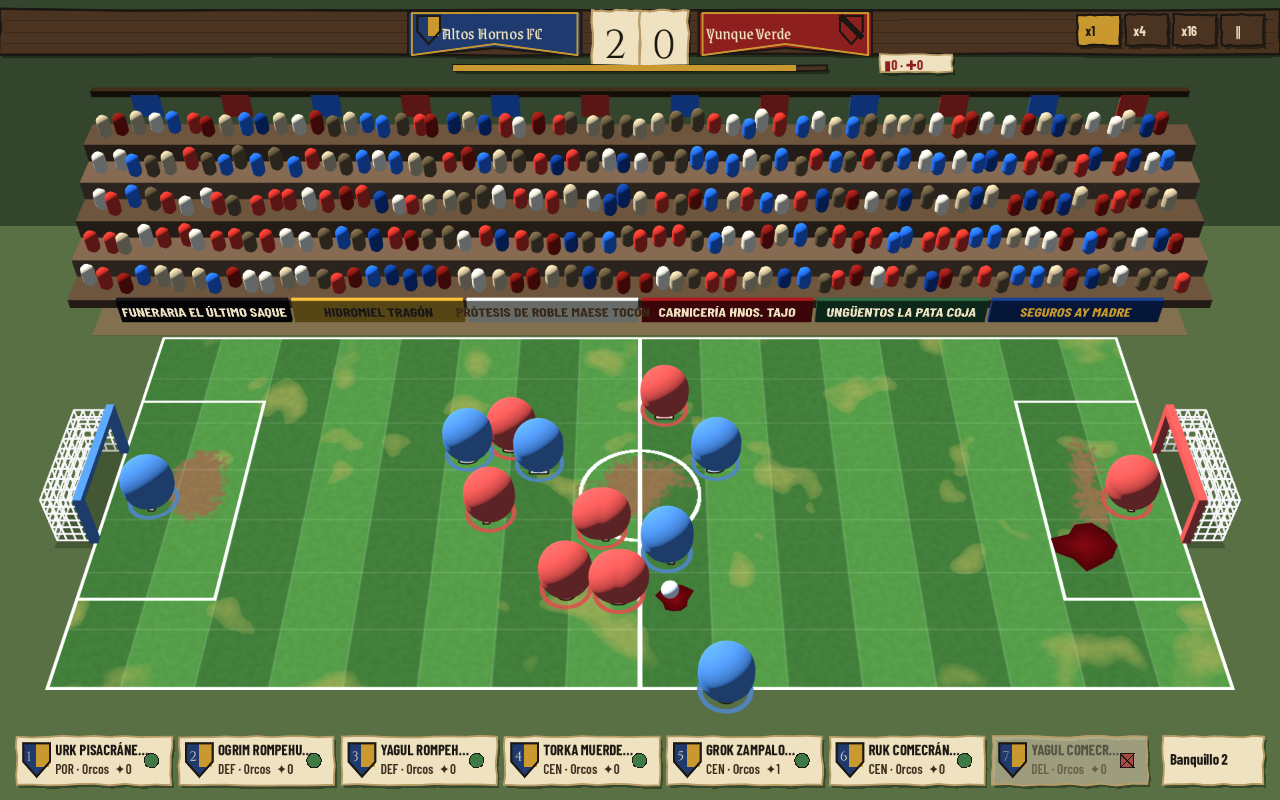
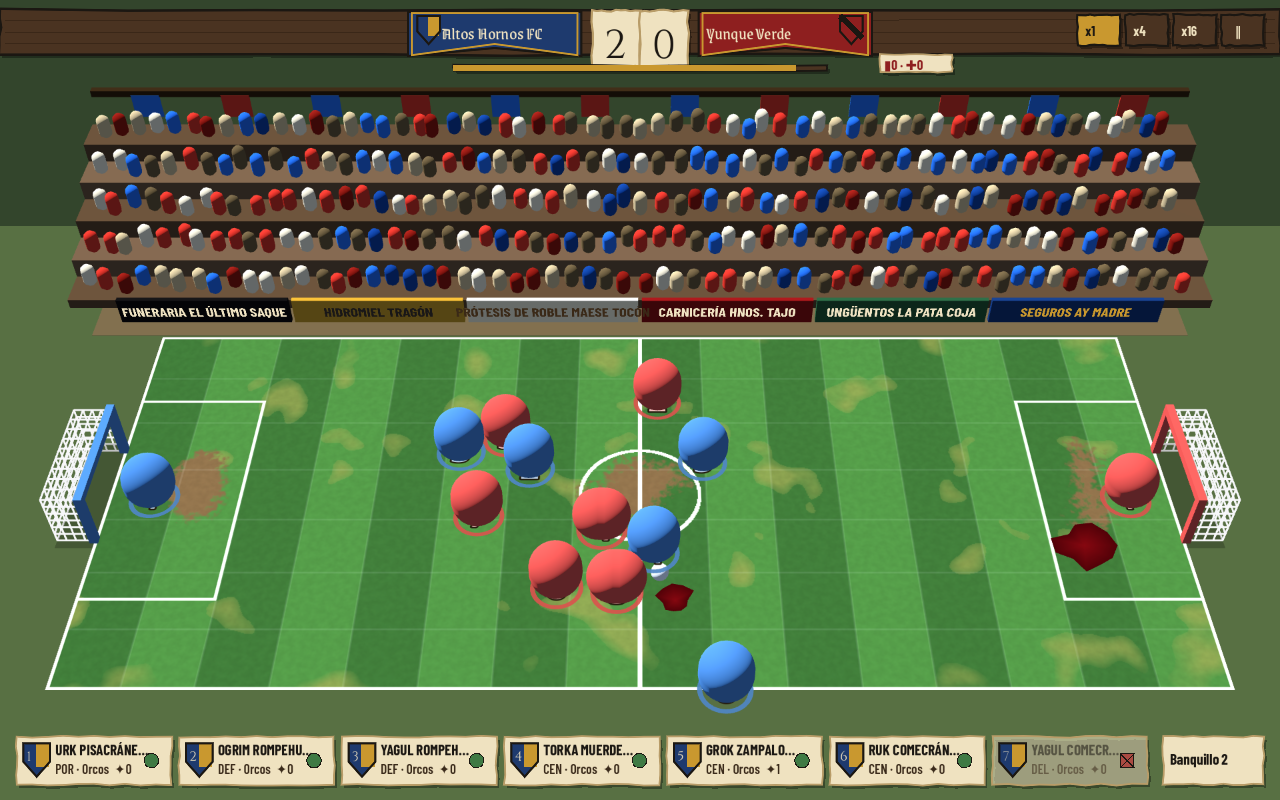
fix(game): el balón va al pie y hacia donde corre — y lo que eso destapó — BI-D
Reportado por el revisor: «el balón no va en sus pies, no se nota como si lo
controlara». Había un defecto real de presentación y, debajo, algo que no es de
presentación.

EL DEFECTO, arreglado y medido. El balón se apartaba del portador SIEMPRE en el eje
largo del campo (hacia la portería que ataca) y a radio + balón + holgura = 0,51
casillas del centro. A la escala del campo —un humano de 1,8 m mide 0,907 casillas,
así que una casilla son ~2 m— eso es UN METRO por delante: el balón iba suelto, no
conducido. Y un jugador que subía por la banda lo llevaba de costado.

Ahora se aparta HACIA DONDE CORRE —la misma dirección que ya orienta al modelo,
extraída a StepOf para que no haya dos cálculos— y a radio × 0,55 = 0,176 casillas,
que son los ~35 cm de un balón al pie, escalando con el tamaño de la raza. La
cápsula conserva la separación de siempre porque es gorda y el balón se le metería
dentro. Verificado con número, no de vista: DebugBall() mide lo DIBUJADO y da 0,176
casillas con portador real en el fotograma pedido (antes: 0,51 fijo en X).

LO QUE DESTAPÓ, y es lo importante. Al buscar un fotograma con un humano
conduciendo para verificarlo, no había ninguno. Medido sobre el partido completo:

  el balón tiene dueño 387 de 1.200 ticks — el 32,3 %
  77 posesiones, 5,0 ticks de media = 0,33 s
  la más larga de CUALQUIERA: 14 ticks = 0,93 s

Dos tercios del partido el balón no es de nadie, y cuando alguien lo tiene lo tiene
[…]

Changed region(s): [[0.3125, 0.4375, 0.5938, 0.7812], [0.875, 0.5625, 0.9062, 0.6562], [0.0938, 0.625, 0.125, 0.6562]]

diff --git a/Game/Ui/MatchPitchView3D.cs b/Game/Ui/MatchPitchView3D.cs
@@ -940,6 +940,29 @@ public partial class MatchPitchView3D : SubViewportContainer
     /// <summary>Centro de mira efectivo del último fotograma (con el gesto ya mezclado, si había alguno): para medir un acercamiento en vez de suponerlo.</summary>
     public Vector3 DebugCenter { get; private set; }
 
+    /// <summary>
+    /// Dónde está dibujado el balón y dónde el jugador que lo lleva, en el mundo, <b>tal y como se ven en
+    /// este fotograma</b>. Para poder medir «el balón va en sus pies» con un número en vez de mirando una
+    /// captura: el revisor lo reportó de vista y de vista se puede confundir con un problema de cámara.
+    /// <c>Carrier</c> es -1 si el balón no tiene dueño.
+    /// </summary>
+    public (Vector3 Ball, Vector3 Carrier, int Index) DebugBall()
+    {
+        if (Trace is not { FrameCount: > 0 } trace)
+        {
+            return (_ball.Position, Vector3.Zero, -1);
+        }
+
+        int frame = Mathf.Clamp(Frame, 0, trace.FrameCount - 1);
+        int carrier = trace.BallOwnerAt(frame);
+        if (carrier < 0 || carrier >= _bodies.Count)
+        {
+            return (_ball.Position, Vector3.Zero, -1);
+        }
+
+        return (_ball.Position, _bodies[carrier].Position, carrier);
+    }
+
     /// <summary>Distancia de cámara efectiva del último fotograma (perspectiva) — en ortográfico es <see cref="CameraDistance"/> sin más, el zoom ahí va por <see cref="Camera3D.Size"/>.</summary>
     public float DebugDistance { get; private set; }
 
@@ -1460,27 +1483,38 @@ public partial class MatchPitchView3D : SubViewportContainer
             // La velocidad sale de los dos fotogramas que la interpolación ya usa, convertida a casillas
             // por segundo (ticks lógicos a 15/s, RT-020). El modelo solo MIRA lo que la traza escribió: no
             // decide nada del partido (RT-014).
-            var here = trace.PositionAt(frame, i);
-            var next = frame + 1 < trace.FrameCount && trace.OnPitchAt(frame + 1, i)
-                ? trace.PositionAt(frame + 1, i)
-                : here;
-            var step = new Vector2(next.X - here.X, next.Y - here.Y);
-            if (step.Length() > TeleportThresholdCells)
-            {
-                step = Vector2.Zero;
-            }
-
-            model.Pose(step * TicksPerSecond, trace.StateAt(frame, i));
+            model.Pose(StepOf(trace, frame, i) * TicksPerSecond, trace.StateAt(frame, i));
         }
 
         var ball = InterpolateBall(trace, frame);
         int carrier = trace.BallOwnerAt(frame);
-        float offset = 0f;
+        var offset = Vector2.Zero;
         if (carrier >= 0 && carrier < _radii.Count)
         {
-            // Igual que en 2D: con dueño el balón está exactamente encima de él, así que se aparta hacia la
-            // portería que ataca para que se le vea a los pies y no dentro de la cápsula.
-            offset = (trace.Players[carrier].Team == 0 ? 1f : -1f) * (_radii[carrier] + BallRadius + 0.06f);
+            // Con dueño, la traza pone el balón EXACTAMENTE encima de él, así que la vista lo aparta para
+            // que se le vea. Dos decisiones, las dos reportadas por el revisor («el balón no va en sus
+            // pies, no se nota como si lo controlara»):
+            //
+            // 1. SE APARTA HACIA DONDE CORRE, no hacia la portería. Antes el desvío era siempre en el eje
+            //    largo del campo, así que un jugador que subía por la banda llevaba el balón de costado —y
+            //    conducir es empujarlo hacia delante—. Si está parado no hay dirección que seguir y se
+            //    recupera la portería que ataca, que es hacia donde mira.
+            //
+            // 2. MUCHO MÁS CERCA cuando hay modelo. La separación de antes era radio + balón + holgura =
+            //    0,51 casillas, que a la escala del campo (un humano de 1,8 m mide 0,907 casillas, así que
+            //    una casilla son ~2 m) es UN METRO por delante del jugador: el balón iba suelto, no
+            //    conducido. Al pie le corresponden ~0,35 m, que son 0,175 casillas. La cápsula conserva la
+            //    separación de siempre porque es gorda de verdad y el balón se le metería dentro.
+            var direction = StepOf(trace, frame, carrier);
+            var unit = direction.LengthSquared() > 0.000001f
+                ? direction.Normalized()
+                : new Vector2(trace.Players[carrier].Team == 0 ? 1f : -1f, 0f);
+
+            float distance = _models[carrier] is not null
+                ? _radii[carrier] * FeetOffsetFactor
+                : _radii[carrier] + BallRadius + 0.06f;
+
+            offset = unit * distance;
         }
 
         // La ALTURA del balón (ADR 0135 pasos 1-2). Hasta el 23 sep 2026 esta vista lo dibujaba a altura
@@ -1498,7 +1532,7 @@ public partial class MatchPitchView3D : SubViewportContainer
         }
 
         _ball.Visible = true;
-        _ball.Position = new Vector3(ball.X + offset, BallRadius + Mathf.Max(0f, height), ball.Y);
+        _ball.Position = new Vector3(ball.X + offset.X, BallRadius + Mathf.Max(0f, height), ball.Y + offset.Y);
 
         // La sombra en el suelo, que es lo que convierte "una pelota más arriba en la pantalla" en "una
         // pelota por el aire": sin una referencia fija en el césped, subir el balón en una cámara en tres
@@ -1511,7 +1545,7 @@ public partial class MatchPitchView3D : SubViewportContainer
             {
                 float shrink = 1f / (1f + height * 0.7f);
                 _ballShadow.Scale = new Vector3(shrink, 1f, shrink);
-                _ballShadow.Position = new Vector3(ball.X + offset, 0.008f, ball.Y);
+                _ballShadow.Position = new Vector3(ball.X + offset.X, 0.008f, ball.Y + offset.Y);
             }
         }
     }
@@ -1528,6 +1562,30 @@ public partial class MatchPitchView3D : SubViewportContainer
 
     /// <summary>Ticks lógicos por segundo (RT-020): convierte el paso entre fotogramas en velocidad.</summary>
     private const float TicksPerSecond = 15f;
+
+    /// <summary>
+    /// A qué fracción del radio del cuerpo lleva el balón un jugador CON MODELO: 0,55 × 0,32 ≈ 0,175
+    /// casillas, que a la escala del campo son los ~35 cm de un balón al pie. Escala con el radio de la
+    /// raza a propósito: el balón va a los pies de quien lo lleva, y un enano y un orco no son iguales.
+    /// </summary>
+    private const float FeetOffsetFactor = 0.55f;
+
+    /// <summary>
+    /// Cuánto se mueve ese jugador entre este fotograma y el siguiente, en casillas por tick. Es la
+    /// dirección en la que corre, y de ella salen <b>dos</b> cosas: hacia dónde mira su modelo y hacia
+    /// dónde lleva el balón. Un salto mayor que <see cref="TeleportThresholdCells"/> no es una zancada
+    /// sino un teletransporte de <c>/Sim</c> (BA-K), y no cuenta como dirección.
+    /// </summary>
+    private Vector2 StepOf(MatchTrace trace, int frame, int player)
+    {
+        var here = trace.PositionAt(frame, player);
+        var next = frame + 1 < trace.FrameCount && trace.OnPitchAt(frame + 1, player)
+            ? trace.PositionAt(frame + 1, player)
+            : here;
+
+        var step = new Vector2(next.X - here.X, next.Y - here.Y);
+        return step.Length() > TeleportThresholdCells ? Vector2.Zero : step;
+    }
 
     /// <summary>
     /// Misma interpolación que <see cref="MatchPitchView"/>: solo dibujo, la traza no se toca (RT-020).

diff --git a/Game/Screens/BroadcastCapture.cs b/Game/Screens/BroadcastCapture.cs
@@ -445,6 +445,115 @@ public partial class BroadcastCapture : Control
                     }
                 }
 
+                // Y un humano CONDUCIENDO: dueño del balón y en movimiento. Es la postura que el revisor
+                // no veía bien («el balón no va en sus pies, no se nota como si lo controlara»), así que es
+                // la que hay que mirar para decir que está arreglada.
+                // Hace falta una conducción SOSTENIDA, no un fotograma suelto: el reloj real avanza un par
+                // de ticks entre el salto y la captura, y si se elige el instante justo en que alguien
+                // toca el balón, para cuando se dibuja ya está suelto. Se busca una ventana de nueve
+                // fotogramas con el mismo dueño moviéndose y se captura por el medio.
+                // Se busca la posesión MÁS LARGA de un humano y, dentro de ella, un fotograma en el que de
+                // verdad se esté moviendo. Exigir movimiento en todos los fotogramas de una ventana no
+                // valía: nadie lo cumplía —dato del motor, no del render: un portador pasa enseguida y a
+                // veces se queda quieto un tick—, así que el criterio es «misma posesión, y en ESTE
+                // fotograma corre».
+                int carryFrame = -1;
+                int longestRun = 0;
+                int runOwner = -1;
+                int runStart = 0;
+                for (int f = 1; f + 1 < humanTrace.FrameCount; f++)
+                {
+                    int owner = humanTrace.BallOwnerAt(f);
+                    bool mine = owner >= 0 && owner < humanTrace.Players.Count && humanTrace.Players[owner].Team == 0;
+                    if (!mine)
+                    {
+                        runOwner = -1;
+                        continue;
+                    }
+
+                    if (owner != runOwner)
+                    {
+                        runOwner = owner;
+                        runStart = f;
+                    }
+
+                    int length = f - runStart + 1;
+                    var a = humanTrace.PositionAt(f, owner);
+                    var b = humanTrace.PositionAt(f + 1, owner);
+                    float step = new Vector2(b.X - a.X, b.Y - a.Y).Length();
+
+                    if (length > longestRun)
+                    {
+                        longestRun = length;
+                    }
+
+                    // Que la posesión siga dos ticks MÁS: entre el salto y el dibujo el reloj real avanza
+                    // ~1,5 ticks (medido: se pidió el 18 y se dibujó el 19), y con posesiones de 5 ticks
+                    // de media eso basta para caerse fuera y medir un balón sin dueño.
+                    bool lasts = f + 2 < humanTrace.FrameCount
+                        && humanTrace.BallOwnerAt(f + 1) == owner
+                        && humanTrace.BallOwnerAt(f + 2) == owner;
+
+                    if (carryFrame < 0 && length >= 2 && lasts && step > 0.05f && step < 0.6f)
+                    {
+                        carryFrame = f;
+                    }
+                }
+
+                // Y el reparto completo, que es lo que de verdad explica la sensación de «no lo controla»:
+                // cuántos ticks del partido tiene el balón DUEÑO, cuántas posesiones hay y cuánto dura la
+                // más larga de cualquier equipo. Si el balón está suelto casi siempre, ninguna colocación
+                // del render lo arregla.
+                int owned = 0;
+                int runs = 0;
+                int longestAny = 0;
+                int current = 0;
+                int previous = -1;
+                for (int f = 0; f < humanTrace.FrameCount; f++)
+                {
+                    int owner = humanTrace.BallOwnerAt(f);
+                    if (owner >= 0)
+                    {
+                        owned++;
+                        current = owner == previous ? current + 1 : 1;
+                        if (current == 1)
+                        {
+                            runs++;
+                        }
+
+                        longestAny = Math.Max(longestAny, current);
+                    }
+                    else
+                    {
+                        current = 0;
+                    }
+
+                    previous = owner;
+                }
+
+                GD.Print($"retrans-modelos-conduccion: posesión propia más larga {longestRun} ticks ({longestRun / 15f:0.##} s) · "
+                    + $"con dueño {owned} de {humanTrace.FrameCount} ticks ({100f * owned / humanTrace.FrameCount:0.#} %) · "
+                    + $"{runs} posesiones · la más larga de cualquiera {longestAny} ticks ({longestAny / 15f:0.##} s)");
+
+                if (carryFrame >= 0)
+                {
+                    // Un tick antes, porque el reloj real avanza ~1,5 ticks hasta que se dibuja.
+                    humanScreen.SeekTo(Math.Max(0, carryFrame - 1));
+                    StepManual(humanScreen, 1.0 / 60.0, 6);
+                    await Save("retrans-modelos-conduccion");
+
+                    // Medir, no mirar: la separación entre el balón dibujado y el jugador que lo lleva, en
+                    // casillas. Al pie le corresponden ~0,175 (unos 35 cm a la escala del campo).
+                    var (ballAt, carrierAt, carrierIndex) = humanScreen.Pitch3D.DebugBall();
+                    float apart = new Vector2(ballAt.X - carrierAt.X, ballAt.Z - carrierAt.Z).Length();
+                    GD.Print($"retrans-modelos-conduccion: fotograma {carryFrame}, portador {carrierIndex}, "
+                        + $"balón a {apart:0.###} casillas del jugador (objetivo ~0,175; al pie), dibujado en el fotograma {humanScreen.Pitch3D.Frame}");
+                }
+                else
+                {
+                    GD.Print("retrans-modelos-conduccion: ningún humano conduce el balón en este partido; se salta");
+                }
+
                 if (downFrame >= 0)
                 {
                     // Unos fotogramas después del derribo: el tiempo que tarda el empujón en dar paso al

diff --git a/docs/pendientes/BI-D.md b/docs/pendientes/BI-D.md
@@ -1,0 +1,59 @@
+# BI-D — Nadie conduce el balón: tiene dueño un tercio del partido y 0,33 s de media
+
+Estado: **ABIERTA, y no es un problema de render** (23 sep 2026). Es una pregunta de diseño para el
+revisor, con números.
+
+## De dónde sale
+
+El revisor, jugando la maqueta de modelos 3D: *«aún así el balón no va en sus pies. No se nota como si lo
+controlara»*. La primera hipótesis fue de presentación —el balón se apartaba en el eje del campo en vez de
+hacia donde corre el jugador, y a 0,51 casillas ≈ 1 m de su centro— **y se arregló** (ver abajo). Pero al
+intentar **capturar** a un humano conduciendo para verificarlo, no había ninguno. Eso destapó lo de verdad.
+
+## Medido (partido del club humano, semilla 20260905, 1.200 ticks)
+
+| | |
+|---|---|
+| ticks con **dueño** del balón | **387 de 1.200 — el 32,3 %** |
+| posesiones en el partido | **77** |
+| duración media | **5,0 ticks = 0,33 s** |
+| posesión más larga de **cualquiera** | **14 ticks = 0,93 s** |
+| posesión más larga del equipo propio | 5 ticks = 0,33 s |
+
+**Dos tercios del partido el balón no es de nadie**: está suelto o en vuelo. Y cuando alguien lo tiene, lo
+tiene un tercio de segundo.
+
+## Por qué importa, y por qué no lo arregla el render
+
+Ninguna colocación del balón hace que «se note el control» si **no hay control que mostrar**: no existe el
+estado de *conducir* con duración. El motor resuelve la jugada como una cadena de toques —`passChainAvgLength`
+2,01, `possessionChanges` 21,5 por partido, que son las métricas con banda— y el balón viaja entre pies.
+
+Es coherente con lo que el motor dice de sí mismo, y **puede ser lo correcto**: Underleague resuelve el
+partido por decisiones de utilidad tick a tick, no por dribbling. Pero entonces la lectura del jugador
+—«esto no parece fútbol, nadie lleva el balón»— es una consecuencia de diseño, no un bug, y merece
+decidirse a la vista de estos números.
+
+## Lo que NO se ha hecho, a propósito
+
+Alargar la posesión toca `/Sim`: mueve `possessionChanges` (hoy 21,52 con techo 28), `passChainAvgLength`
+(2,01 en banda 1,80-3,50) y probablemente tiros y goles. Es **mecánica, no presentación**, así que pide
+`game-design-review` y decisión del revisor antes de tocar una línea — y ADR si se toca (RT-057).
+
+Tres caminos posibles, sin recomendación todavía porque ninguno está medido:
+
+1. **Dejarlo** y aceptar que el balón es el protagonista, no el portador. Gratis, y consistente con la
+   identidad del juego (el partido es una carnicería, no una exhibición técnica).
+2. **Un estado de conducción con duración** en `/Sim`: el portador mantiene el balón mientras avanza, en vez
+   de resolver un toque por tick. Es la que más cambia la sensación y la que más balance mueve.
+3. **Solo presentación**: que el balón quede pegado a los pies del último tocador mientras esté suelto y
+   cerca. Miente un poco —el balón no es suyo— y choca con *«comportamiento observable > modificadores
+   invisibles»*: haría parecer que alguien lleva el balón cuando el motor dice que no.
+
+## Lo que sí se arregló, que era real
+
+El balón se apartaba del portador **en el eje largo del campo** (hacia la portería que ataca) y a **0,51
+casillas ≈ 1 m** de su centro, cuando al pie le corresponden ~0,35 m (0,175 casillas). Ahora se aparta
+**hacia donde corre** —la misma dirección que ya orienta al modelo— y a `radio × 0,55`, que escala con el
+tamaño de la raza. Las cápsulas conservan la separación de siempre porque son gordas y el balón se les
+metería dentro.

diff --git a/docs/pendientes/README.md b/docs/pendientes/README.md
@@ -101,3 +101,4 @@ viva anotada.
 | [BI-A](./BI-A.md) | Lo que la revisión independiente dejó abierto en el primer paquete de audio | **Abierta** (23 sep 2026): cuatro defectos arreglados en el propio paquete (bolsa duplicada, crujido doble en la sustitución, lesión+muerte del mismo tick, la grada celebrando el gol del rival); quedan el hermano del desfase en la cámara, la traza de un partido entero a ×1 y los momentos que se descartan en silencio |
 | [BI-B](./BI-B.md) | El balón se ve raso siempre: la altura se calculaba, se guardaba y no la leía nadie | **CERRADA en la vista 3D** (23 sep 2026): `BallHeightAt` tenía cero consumidores. Reportada jugando, causa aislada con un grep. La vista 2D de depuración se queda fuera a propósito |
 | [BI-C](./BI-C.md) | Las animaciones se llevaban al modelo fuera de su anillo (root motion) | **CERRADA** (23 sep 2026): los clips traían el desplazamiento horneado en el hueso raíz —corriendo se salía 1,53 casillas, el trompicón 2,14—. Se fija el horizontal al cargar y se conserva el vertical |
+| [BI-D](./BI-D.md) | Nadie conduce el balón: tiene dueño el 32,3 % del partido y 0,33 s de media | **ABIERTA, no es de render** (23 sep 2026): 387 de 1.200 ticks con dueño, 77 posesiones, la más larga de cualquiera 0,93 s. Pregunta de diseño para el revisor; alargarla toca `/Sim` y mueve `possessionChanges` y `passChainAvgLength` |
